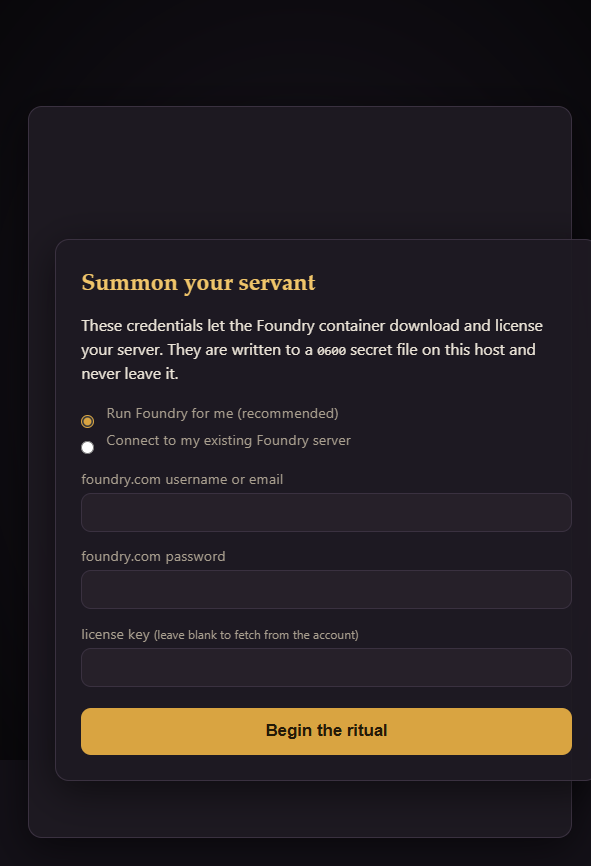
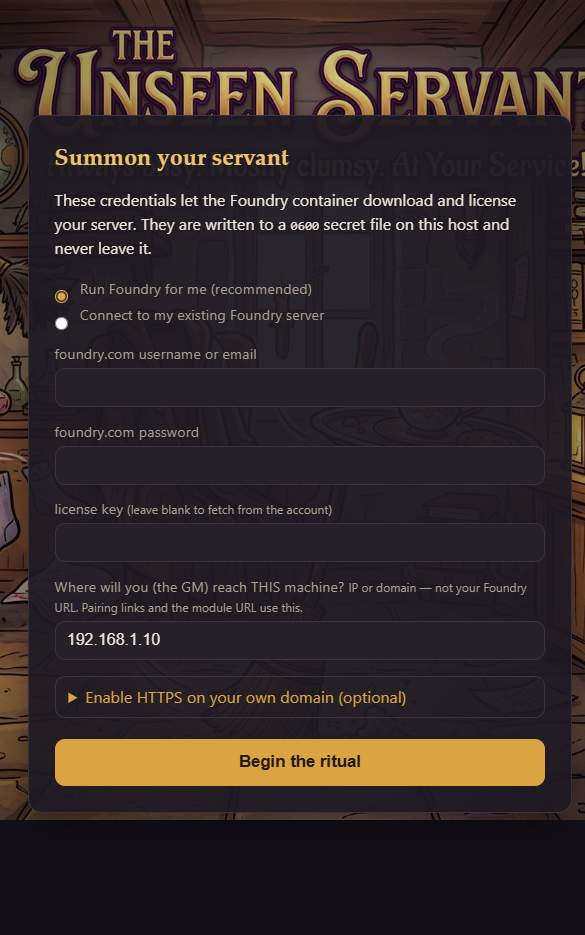
release v0.4.2

Changed region(s): [[0.0, 0.0, 1.0, 0.9042], [0.0923, 0.1559, 0.9231, 0.5612], [0.7385, 0.6236, 0.8923, 0.6547]]

diff --git a/WALKTHROUGH.md b/WALKTHROUGH.md
@@ -72,16 +72,19 @@ status — this is the bridge the app talks to.
 The self-hosted admin console is where you mint one-tap join links per player,
 scope each to specific characters, and revoke them.
 
-| Admin login | Player links |
-|---|---|
-| <img src="screenshots/20-admin-login.png" width="300"> | <img src="screenshots/21-admin-players.png" width="300"> |
+| Admin login | Player links | Relay & pairing |
+|---|---|---|
+| <img src="screenshots/v2-20-admin-login.png" width="260"> | <img src="screenshots/v2-21-admin-players.png" width="260"> | <img src="screenshots/v2-22-admin-relay-pairing.png" width="260"> |
 
-Each player is bound to one or more Foundry actors. **New link** rotates their
-invite, **Revoke** kills it. Links survive restarts.
+Each player is bound to one or more Foundry actors — *Player Three* above is
+scoped to two. **New link** rotates their invite, **Revoke** kills it. Links
+survive restarts.
 
-The console also carries a relay & pairing panel that shows connection status and
-the exact `ws://` URL to paste into the Foundry module, so you never have to
-assemble it by hand.
+The **Relay & pairing** panel is the part that saves you a support call. It hands
+you the relay account to approve pairing with, and the exact
+`ws://<your-host>:3010` URL to paste into the module — no assembling it by hand,
+no guessing whether it should be your Foundry's address or this machine's. The
+password stays masked until you ask for it.
 
 ---
 
